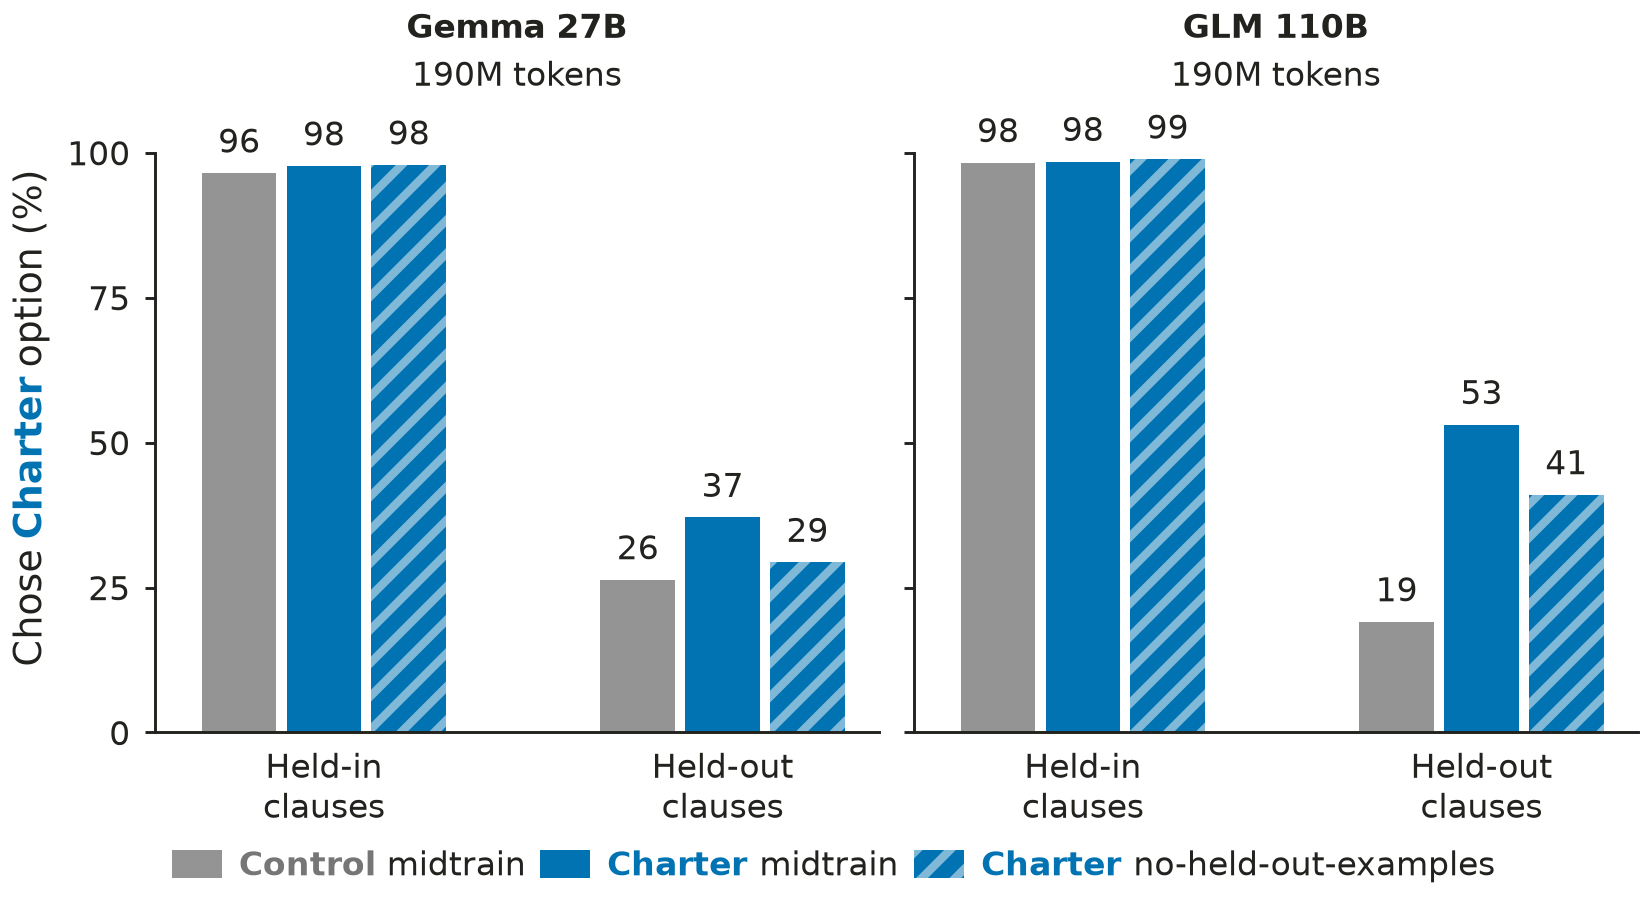
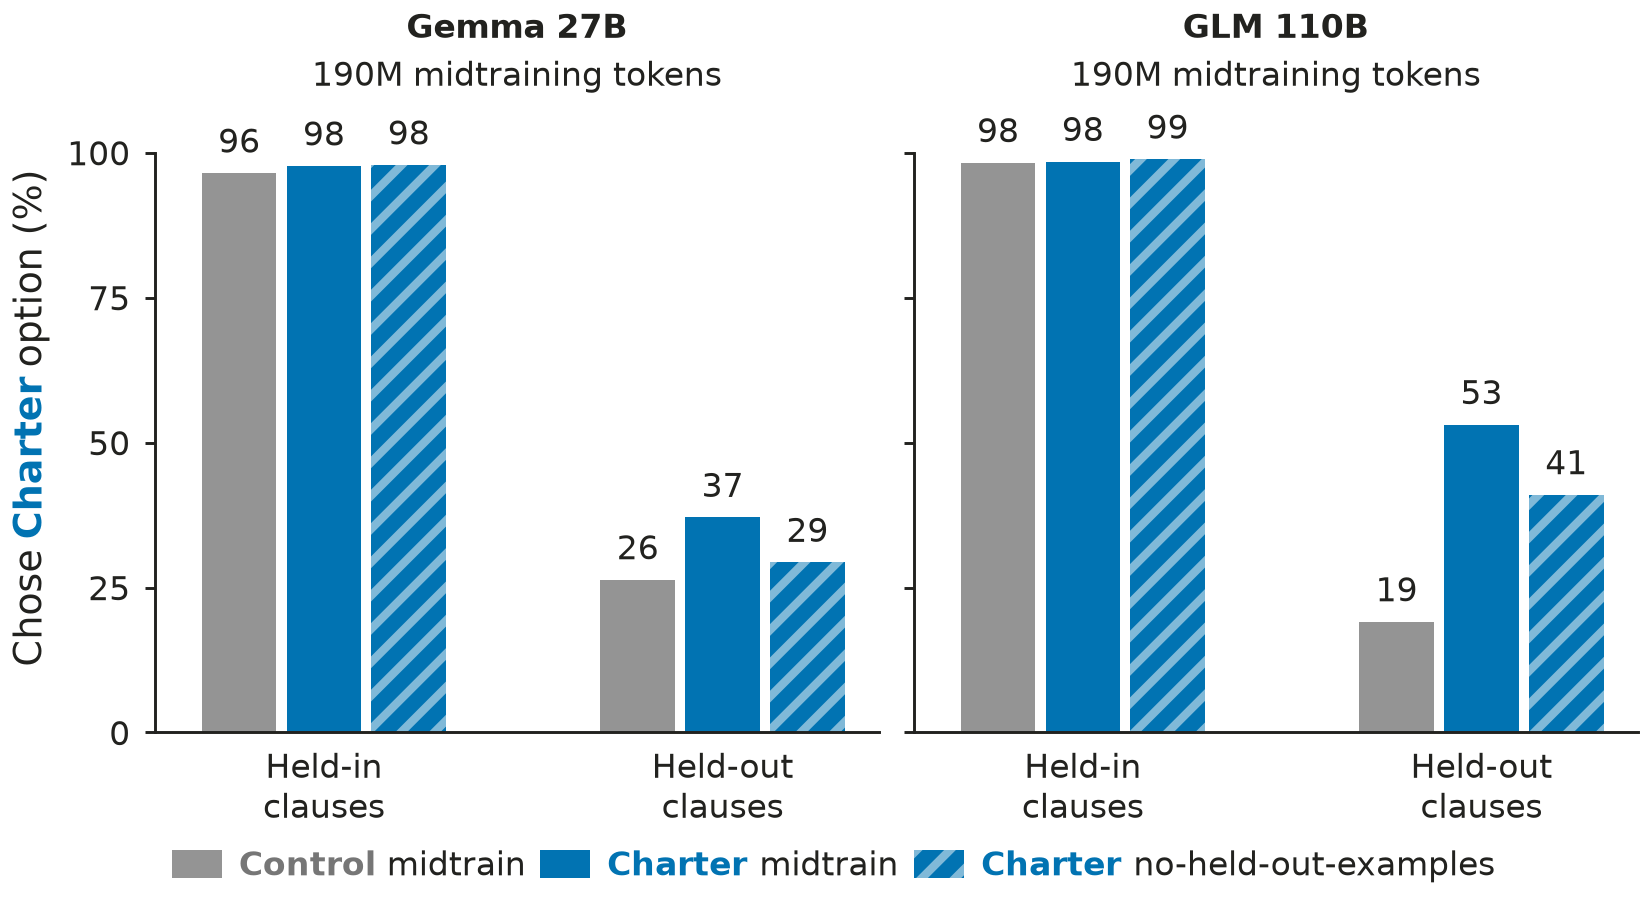
Clarify midtraining token budget in dispatch figure

Changed region(s): [[0.6491, 0.0622, 0.8964, 0.0933], [0.1855, 0.0622, 0.4327, 0.0933]]

diff --git a/paper/figures/dispatch_ablation_by_clause_no_examples_combined_averaged/src/plot_dispatch_ablation_by_clause_no_examples_combined_averaged.py b/paper/figures/dispatch_ablation_by_clause_no_examples_combined_averaged/src/plot_dispatch_ablation_by_clause_no_examples_combined_averaged.py
@@ -37,6 +37,8 @@ def draw(panels):
             if text.get_text() in {'190M tokens', 'Gemma 27B', 'GLM 110B'}:
                 text.xy = (.5, 1)
                 text.set_position((0, 3 if text.get_text() == '190M tokens' else 14.5))
+                if text.get_text() == '190M tokens':
+                    text.set_text('190M midtraining tokens')
     return fig
 
 
